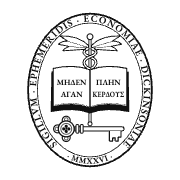
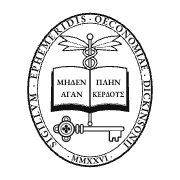
Rebalance the seal inscription and use OECONOMIAE DICKINSONII
The band is now set in two halves meeting at a dot centred at the top,
so both sides start, peak and end in the same places. Wording changes to
the classical OECONOMIAE and the genitive DICKINSONII. Seal file, header
seals and site icons are regenerated to match.

Changed region(s): [[0.1667, 0.0833, 0.8611, 0.8333]]

diff --git a/index.html b/index.html
@@ -98,9 +98,12 @@
               <text x="231" y="193">ΠΛΗΝ</text>
               <text x="231" y="228" textLength="88" lengthAdjust="spacingAndGlyphs">ΚΕΡΔΟΥΣ</text>
             </g>
-            <text font-size="27" font-weight="600" fill="#111">
-              <textPath href="#band-top" startOffset="50%" text-anchor="middle" textLength="868" lengthAdjust="spacing">SIGILLVM · EPHEMERIDIS · ECONOMIAE · DICKINSONIAE</textPath>
-            </text>
+            <!-- Split at the middle dot so it sits exactly at the top and each half fills its own side -->
+            <g font-size="27" font-weight="600" fill="#111">
+              <text><textPath href="#band-top" startOffset="27" textLength="423" lengthAdjust="spacing">SIGILLVM · EPHEMERIDIS</textPath></text>
+              <text><textPath href="#band-top" startOffset="461" text-anchor="middle">·</textPath></text>
+              <text><textPath href="#band-top" startOffset="472" textLength="423" lengthAdjust="spacing">OECONOMIAE · DICKINSONII</textPath></text>
+            </g>
           </svg>
         <span class="wordmark"><span class="nowrap"><em>the</em> Dickinson</span> <span class="nowrap">Economics Review</span></span>
       </a></h1>

diff --git a/about.html b/about.html
@@ -98,9 +98,12 @@
               <text x="231" y="193">ΠΛΗΝ</text>
               <text x="231" y="228" textLength="88" lengthAdjust="spacingAndGlyphs">ΚΕΡΔΟΥΣ</text>
             </g>
-            <text font-size="27" font-weight="600" fill="#111">
-              <textPath href="#band-top" startOffset="50%" text-anchor="middle" textLength="868" lengthAdjust="spacing">SIGILLVM · EPHEMERIDIS · ECONOMIAE · DICKINSONIAE</textPath>
-            </text>
+            <!-- Split at the middle dot so it sits exactly at the top and each half fills its own side -->
+            <g font-size="27" font-weight="600" fill="#111">
+              <text><textPath href="#band-top" startOffset="27" textLength="423" lengthAdjust="spacing">SIGILLVM · EPHEMERIDIS</textPath></text>
+              <text><textPath href="#band-top" startOffset="461" text-anchor="middle">·</textPath></text>
+              <text><textPath href="#band-top" startOffset="472" textLength="423" lengthAdjust="spacing">OECONOMIAE · DICKINSONII</textPath></text>
+            </g>
           </svg>
         <span class="wordmark"><span class="nowrap"><em>the</em> Dickinson</span> <span class="nowrap">Economics Review</span></span>
       </a></p>
